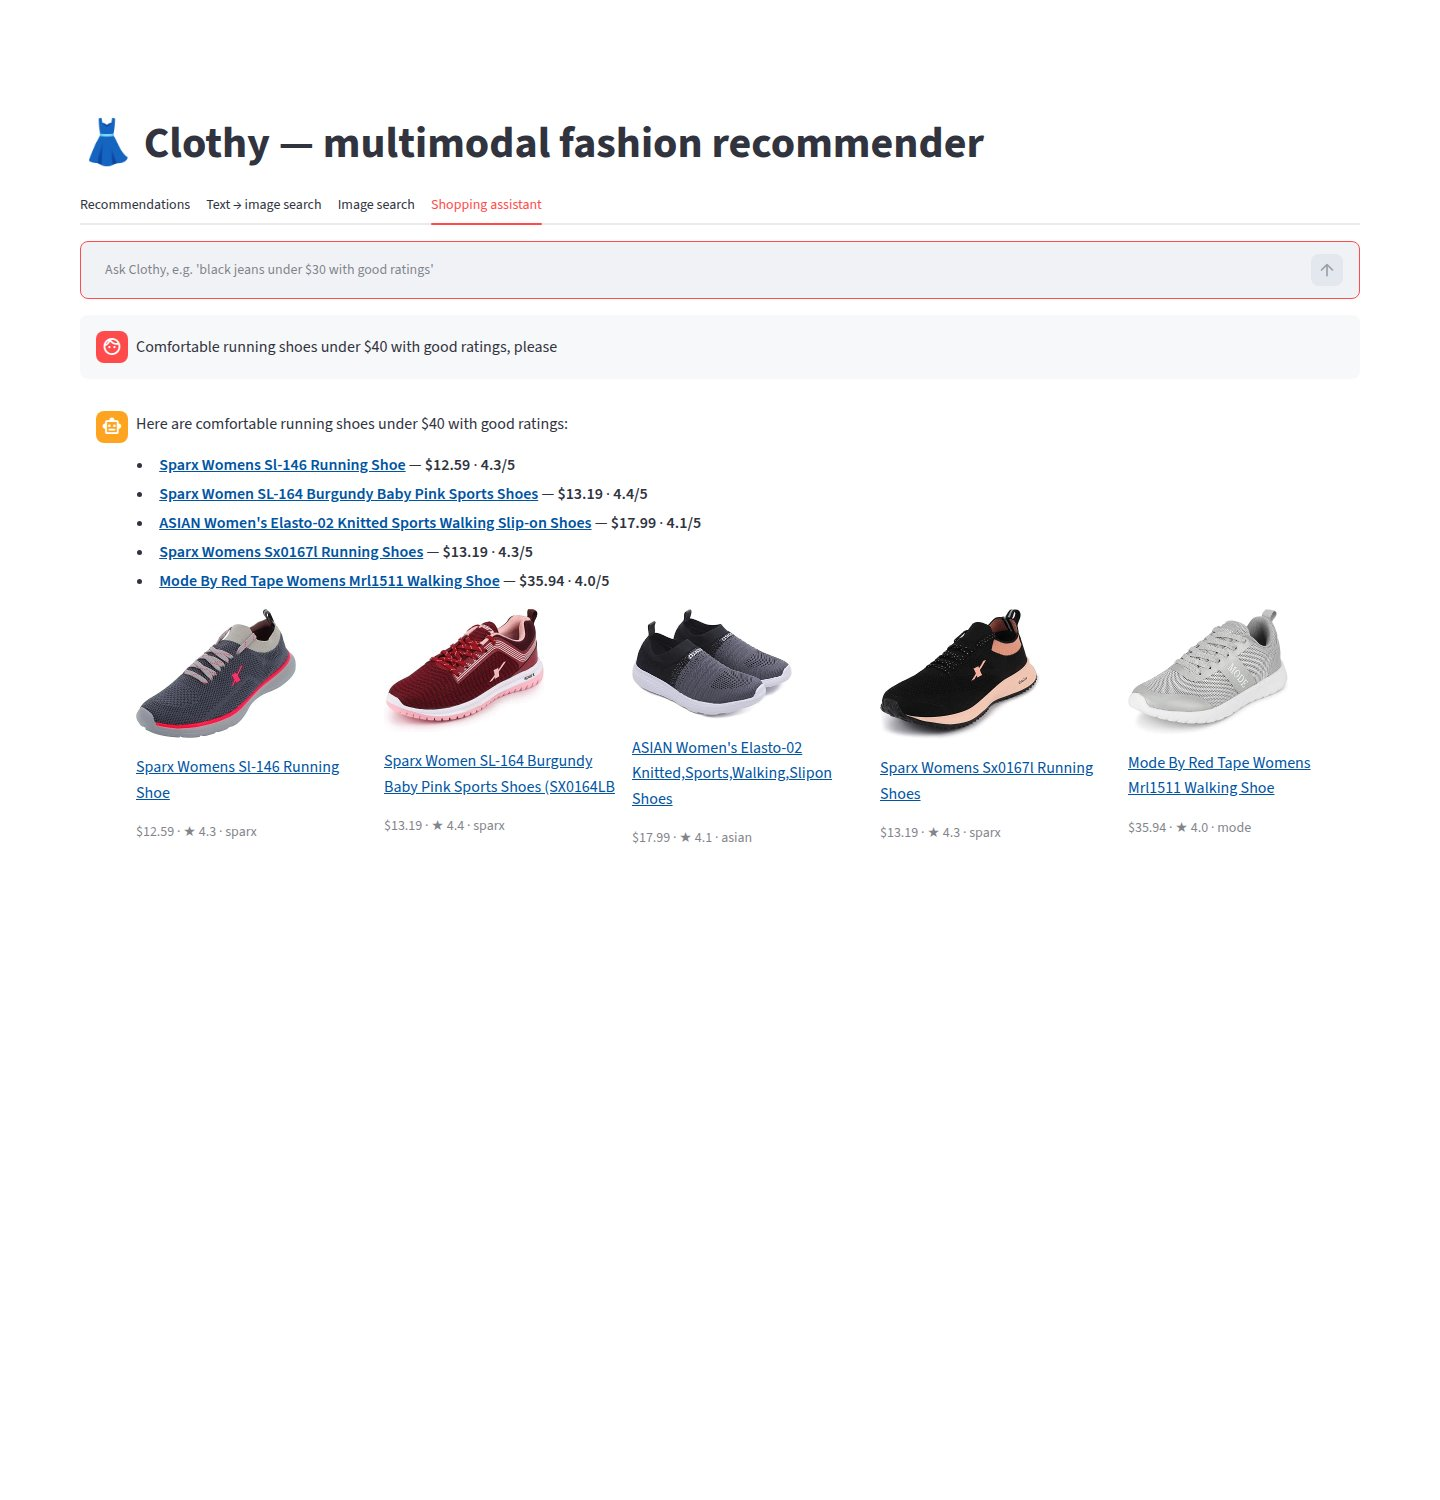
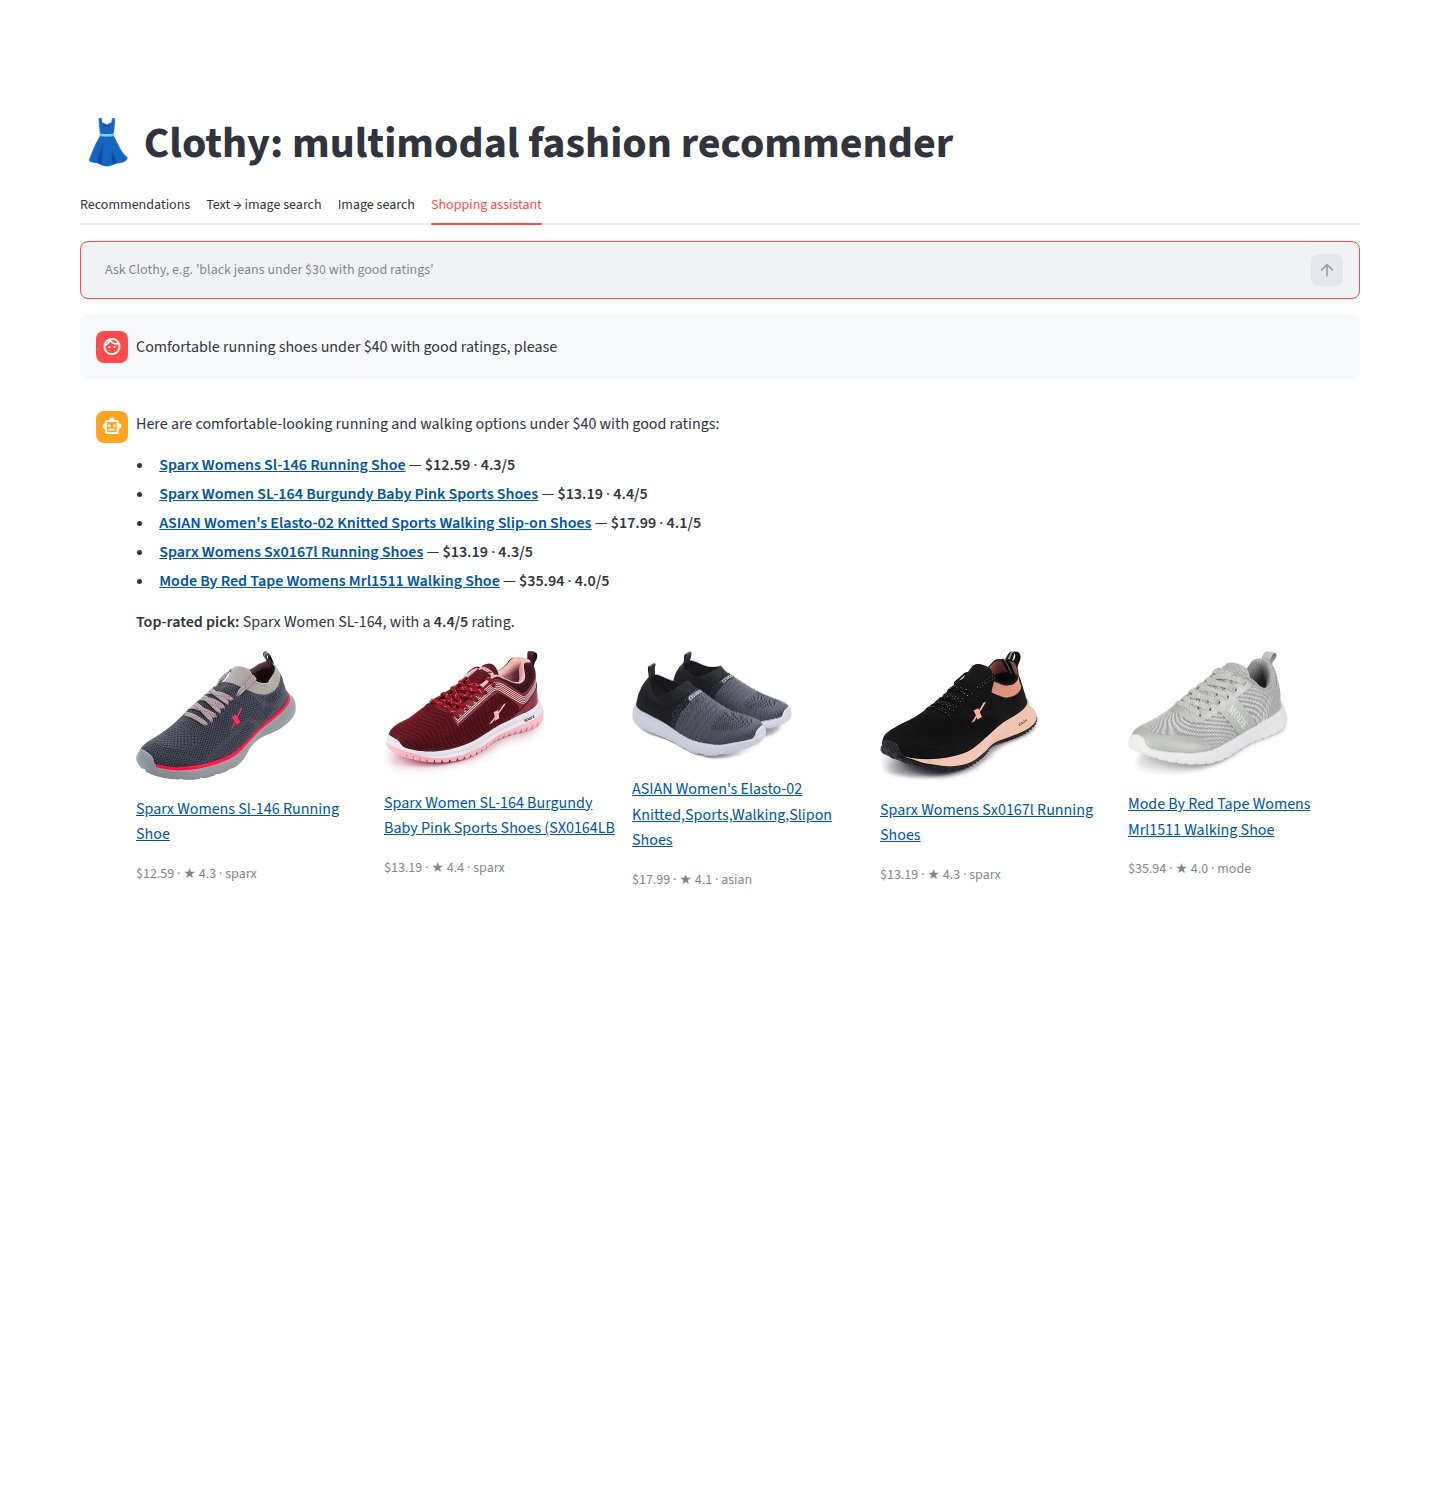
style(ui): drop dash from app title; recapture screenshots

diff --git a/src/clothes_recommender/ui.py b/src/clothes_recommender/ui.py
@@ -1,4 +1,4 @@
-"""Streamlit demo UI — a thin client over the HTTP API.
+"""Streamlit demo UI: a thin client over the HTTP API.
 
 Run with: uv run streamlit run src/clothes_recommender/ui.py
 """
@@ -134,7 +134,7 @@ def chat_tab() -> None:
 
 def main() -> None:
     st.set_page_config(page_title="Clothy · Fashion Recommender", page_icon="👗", layout="wide")
-    st.title("👗 Clothy — multimodal fashion recommender")
+    st.title("👗 Clothy: multimodal fashion recommender")
     tabs = st.tabs(["Recommendations", "Text → image search", "Image search", "Shopping assistant"])
     for tab, render in zip(
         tabs, [recommendations_tab, text_search_tab, image_search_tab, chat_tab], strict=True
